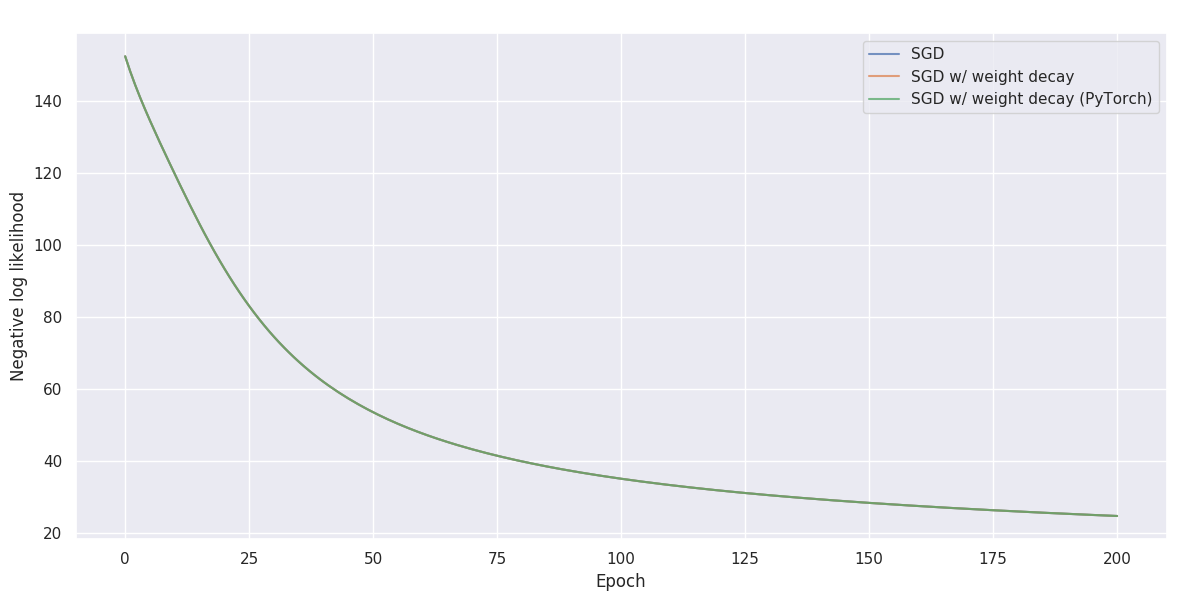
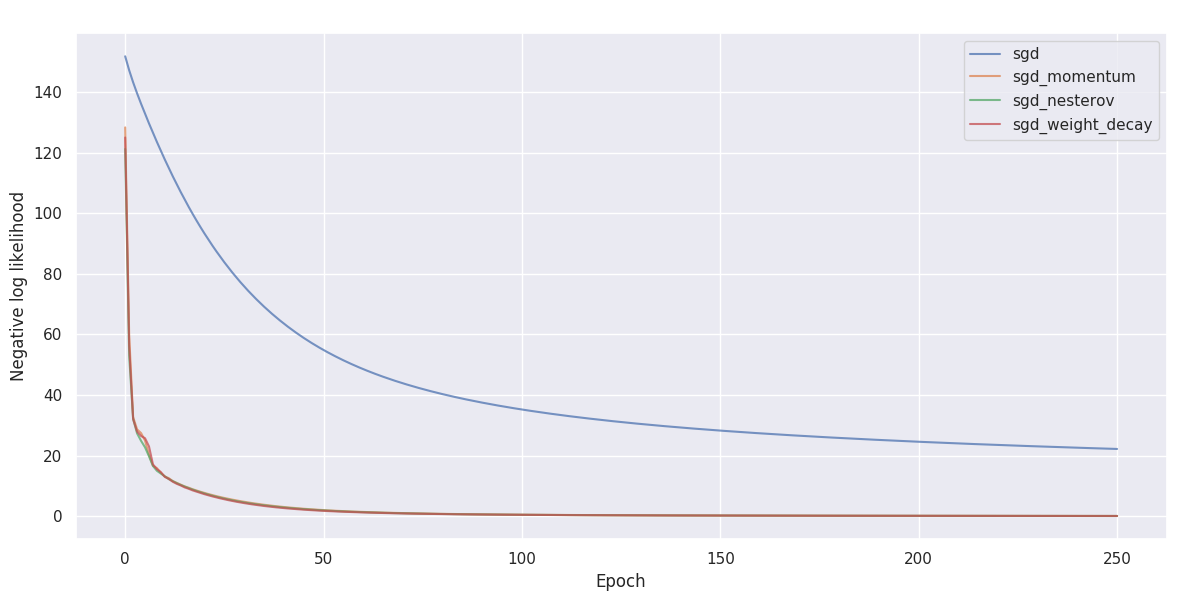
cleaned repo

diff --git a/main.py b/main.py
@@ -1,133 +1,53 @@
 import argparse
-import matplotlib.pyplot as plt
-import seaborn as sns
-import numpy as np
-import torch
-import torch.nn as nn
-import torch.nn.functional as F
-import torch.nn.init as init
-from torch import utils
-from torch.nn import Parameter
-import misc
-import optimizers
 from copy import deepcopy
 
-class MLP(nn.Module):
-	"""
-	A small multilayer perceptron with parameters that we can optimize for the task.
-	"""
-	def __init__(self, num_features, num_hidden, num_outputs):
-		super(MLP, self).__init__()
-
-		self.W_1 = Parameter(init.xavier_normal_(torch.Tensor(num_hidden, num_features)))
-		self.b_1 = Parameter(init.constant_(torch.Tensor(num_hidden), 0))
-
-		self.W_2 = Parameter(init.xavier_normal_(torch.Tensor(num_outputs, num_hidden)))
-		self.b_2 = Parameter(init.constant_(torch.Tensor(num_outputs), 0))
-
-	def forward(self, x):
-		x = F.relu(F.linear(x, self.W_1, self.b_1))
-		x = F.linear(x, self.W_2, self.b_2)
-
-		return x
-
-
-def fit(net, data, optimizer, batch_size=64, num_epochs=250):
-	"""
-	Fits parameters of a network `net` using `data` as training data and a given `optimizer`.
-	"""
-	x_train, y_train, x_val, y_val = data
-
-	train_generator = utils.data.DataLoader(misc.Dataset(x_train, y_train), batch_size=batch_size)
-	val_generator = utils.data.DataLoader(misc.Dataset(x_val, y_val), batch_size=batch_size)
-
-	losses = misc.AvgLoss()
-	val_losses = misc.AvgLoss()
-
-	for epoch in range(num_epochs+1):
-
-		epoch_loss = misc.AvgLoss()
-		epoch_val_loss = misc.AvgLoss()
-
-		for x, y in val_generator:
-			epoch_val_loss += F.cross_entropy(net(x), y.type(torch.LongTensor))
-
-		for x, y in train_generator:
-			loss = F.cross_entropy(net(x), y.type(torch.LongTensor))
-			epoch_loss += loss
-
-			optimizer.zero_grad()
-			loss.backward()
-			optimizer.step()
-
-		if epoch % 10 == 0:
-			print(f'Epoch {epoch}/{num_epochs}, loss: {epoch_loss}, val loss: {epoch_val_loss}')
-
-		losses += epoch_loss.losses
-		val_losses += epoch_val_loss.avg
-
-	return losses
+import misc
+import optimizers
+from mlp import MLP, fit
 
 
 if __name__ == '__main__':
 	parser = argparse.ArgumentParser()
-	parser.add_argument('-algorithm', type=str, default='SGD')
-	parser.add_argument('-num_epochs', type=int, default=200)
+	parser.add_argument('-num_epochs', type=int, default=250)
 	args = parser.parse_args()
 
 	data = misc.load_mnist()
 	misc.plot_mnist(data[0])
 	print(f'Loaded data partitions: ({len(data[0])}, {len(data[2])}, {len(data[4])})')
 
-	net = MLP(num_features=784, num_hidden=64, num_outputs=10)
+	optim_dict = {
+		'sgd': {
+			'lr': 1e-3
+		},
+		'sgd_momentum': {
+			'lr': 1e-3,
+			'mu': 0.99
+		},
+		'sgd_nesterov': {
+			'lr': 1e-3,
+			'mu': 0.99,
+			'nesterov': True
+		},
+		'sgd_weight_decay': {
+			'lr': 1e-3,
+			'mu': 0.99,
+			'weight_decay': 1e-6
+		}
+	}
 
-	use_opt = ['sgd', 'sgd_weight_decay']
-	#use_opt = ['sgd', 'sgd_momentum', 'sgd_nesterov', 'sgd_weight_decay']
+	opt_labels = ['sgd', 'sgd_momentum', 'sgd_nesterov', 'sgd_weight_decay']
 	opt_losses = []
-	opt_labels = []
 
-	if 'sgd' in use_opt:
-		sgd_net = deepcopy(net)
-		sgd_opt = optimizers.SGD(
-			params=sgd_net.parameters(),
-			lr=1e-3
+	def do_stuff(opt):
+		net = MLP(num_features=784, num_hidden=64, num_outputs=10)
+		optimizer = optimizers.SGD(
+			params=net.parameters(),
+			**optim_dict[opt]
 		)
-		sgd_loss = fit(sgd_net, data[:4], sgd_opt, num_epochs=args.num_epochs)
-		opt_losses.append(sgd_loss)
-		opt_labels.append('SGD')
 
-	if 'sgd_momentum' in use_opt:
-		sgd_momentum_net = deepcopy(net)
-		sgd_momentum_opt = optimizers.SGD(
-			params=sgd_momentum_net.parameters(),
-			lr=1e-3,
-			mu=0.99
-		)
-		sgd_momentum_loss = fit(sgd_momentum_net, data[:4], sgd_momentum_opt, num_epochs=args.num_epochs)
-		opt_losses.append(sgd_momentum_loss)
-		opt_labels.append('SGD w/ momentum')
+		return fit(net, data[:4], optimizer, num_epochs=args.num_epochs)
 
-	if 'sgd_nesterov' in use_opt:
-		sgd_nesterov_net = deepcopy(net)
-		sgd_nesterov_opt = optimizers.SGD(
-			params=sgd_nesterov_net.parameters(),
-			lr=1e-3,
-			mu=0.99,
-			nesterov=True
-		)
-		sgd_nesterov_loss = fit(sgd_nesterov_net, data[:4], sgd_nesterov_opt, num_epochs=args.num_epochs)
-		opt_losses.append(sgd_nesterov_loss)
-		opt_labels.append('SGD w/ Nesterov')
-	
-	if 'sgd_weight_decay' in use_opt:
-		sgd_weight_decay_net = deepcopy(net)
-		sgd_weight_decay_opt = optimizers.SGD(
-			params=sgd_weight_decay_net.parameters(),
-			lr=1e-3,
-			weight_decay=1e-5
-		)
-		sgd_weight_decay_loss = fit(sgd_weight_decay_net, data[:4], sgd_weight_decay_opt, num_epochs=args.num_epochs)
-		opt_losses.append(sgd_weight_decay_loss)
-		opt_labels.append('SGD w/ weight decay')
+	for opt in opt_labels:
+		opt_losses.append(do_stuff(opt))
 
 	misc.plot_losses(opt_losses, labels=opt_labels, num_epochs=args.num_epochs, plot_epochs=True)

diff --git a/mlp.py b/mlp.py
@@ -1,0 +1,65 @@
+import torch
+import torch.nn as nn
+import torch.nn.functional as F
+import torch.nn.init as init
+from torch import utils
+from torch.nn import Parameter
+
+import misc
+
+
+class MLP(nn.Module):
+	"""
+	A small multilayer perceptron with parameters that we can optimize for the task.
+	"""
+	def __init__(self, num_features, num_hidden, num_outputs):
+		super(MLP, self).__init__()
+
+		self.W_1 = Parameter(init.xavier_normal_(torch.Tensor(num_hidden, num_features)))
+		self.b_1 = Parameter(init.constant_(torch.Tensor(num_hidden), 0))
+
+		self.W_2 = Parameter(init.xavier_normal_(torch.Tensor(num_outputs, num_hidden)))
+		self.b_2 = Parameter(init.constant_(torch.Tensor(num_outputs), 0))
+
+	def forward(self, x):
+		x = F.relu(F.linear(x, self.W_1, self.b_1))
+		x = F.linear(x, self.W_2, self.b_2)
+
+		return x
+
+
+def fit(net, data, optimizer, batch_size=64, num_epochs=250):
+	"""
+	Fits parameters of a network `net` using `data` as training data and a given `optimizer`.
+	"""
+	x_train, y_train, x_val, y_val = data
+
+	train_generator = utils.data.DataLoader(misc.Dataset(x_train, y_train), batch_size=batch_size)
+	val_generator = utils.data.DataLoader(misc.Dataset(x_val, y_val), batch_size=batch_size)
+
+	losses = misc.AvgLoss()
+	val_losses = misc.AvgLoss()
+
+	for epoch in range(num_epochs+1):
+
+		epoch_loss = misc.AvgLoss()
+		epoch_val_loss = misc.AvgLoss()
+
+		for x, y in val_generator:
+			epoch_val_loss += F.cross_entropy(net(x), y.type(torch.LongTensor))
+
+		for x, y in train_generator:
+			loss = F.cross_entropy(net(x), y.type(torch.LongTensor))
+			epoch_loss += loss
+
+			optimizer.zero_grad()
+			loss.backward()
+			optimizer.step()
+
+		if epoch % 10 == 0:
+			print(f'Epoch {epoch}/{num_epochs}, loss: {epoch_loss}, val loss: {epoch_val_loss}')
+
+		losses += epoch_loss.losses
+		val_losses += epoch_val_loss.avg
+
+	return losses

diff --git a/optimizers.py b/optimizers.py
@@ -1,6 +1,7 @@
 import torch
 from torch.optim import Optimizer
 
+
 class SGD(Optimizer):
     def __init__(self, params, lr, mu=0, nesterov=False, weight_decay=0):
         defaults = {'lr': lr, 'mu': mu, 'nesterov': nesterov, 'weight_decay': weight_decay}
